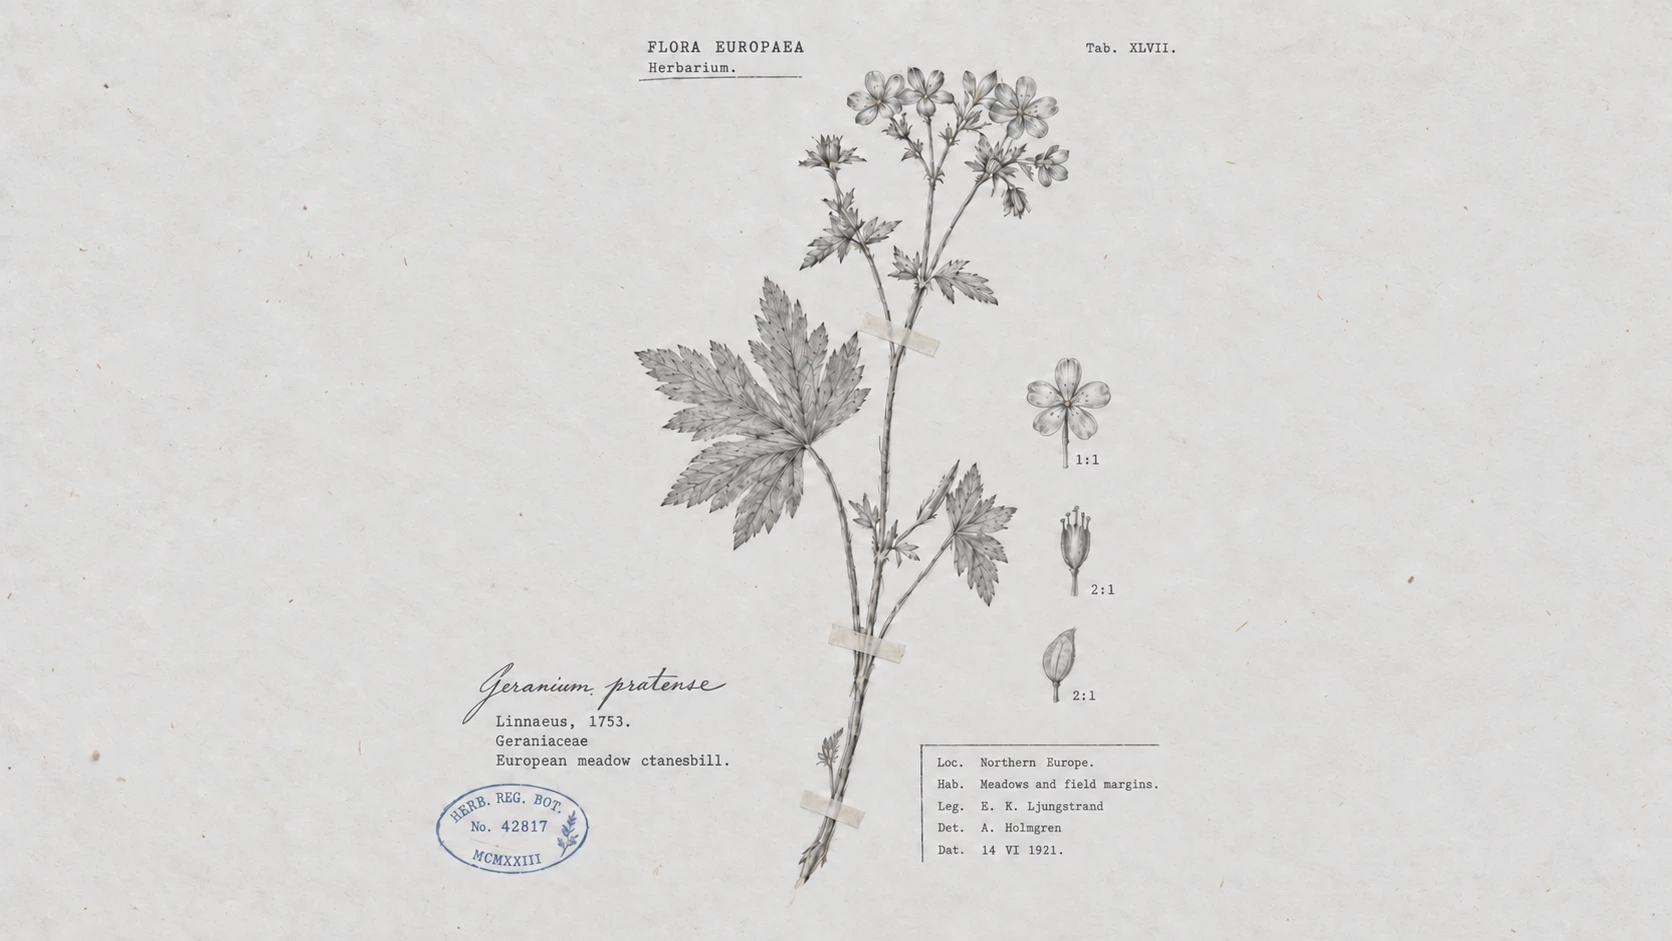
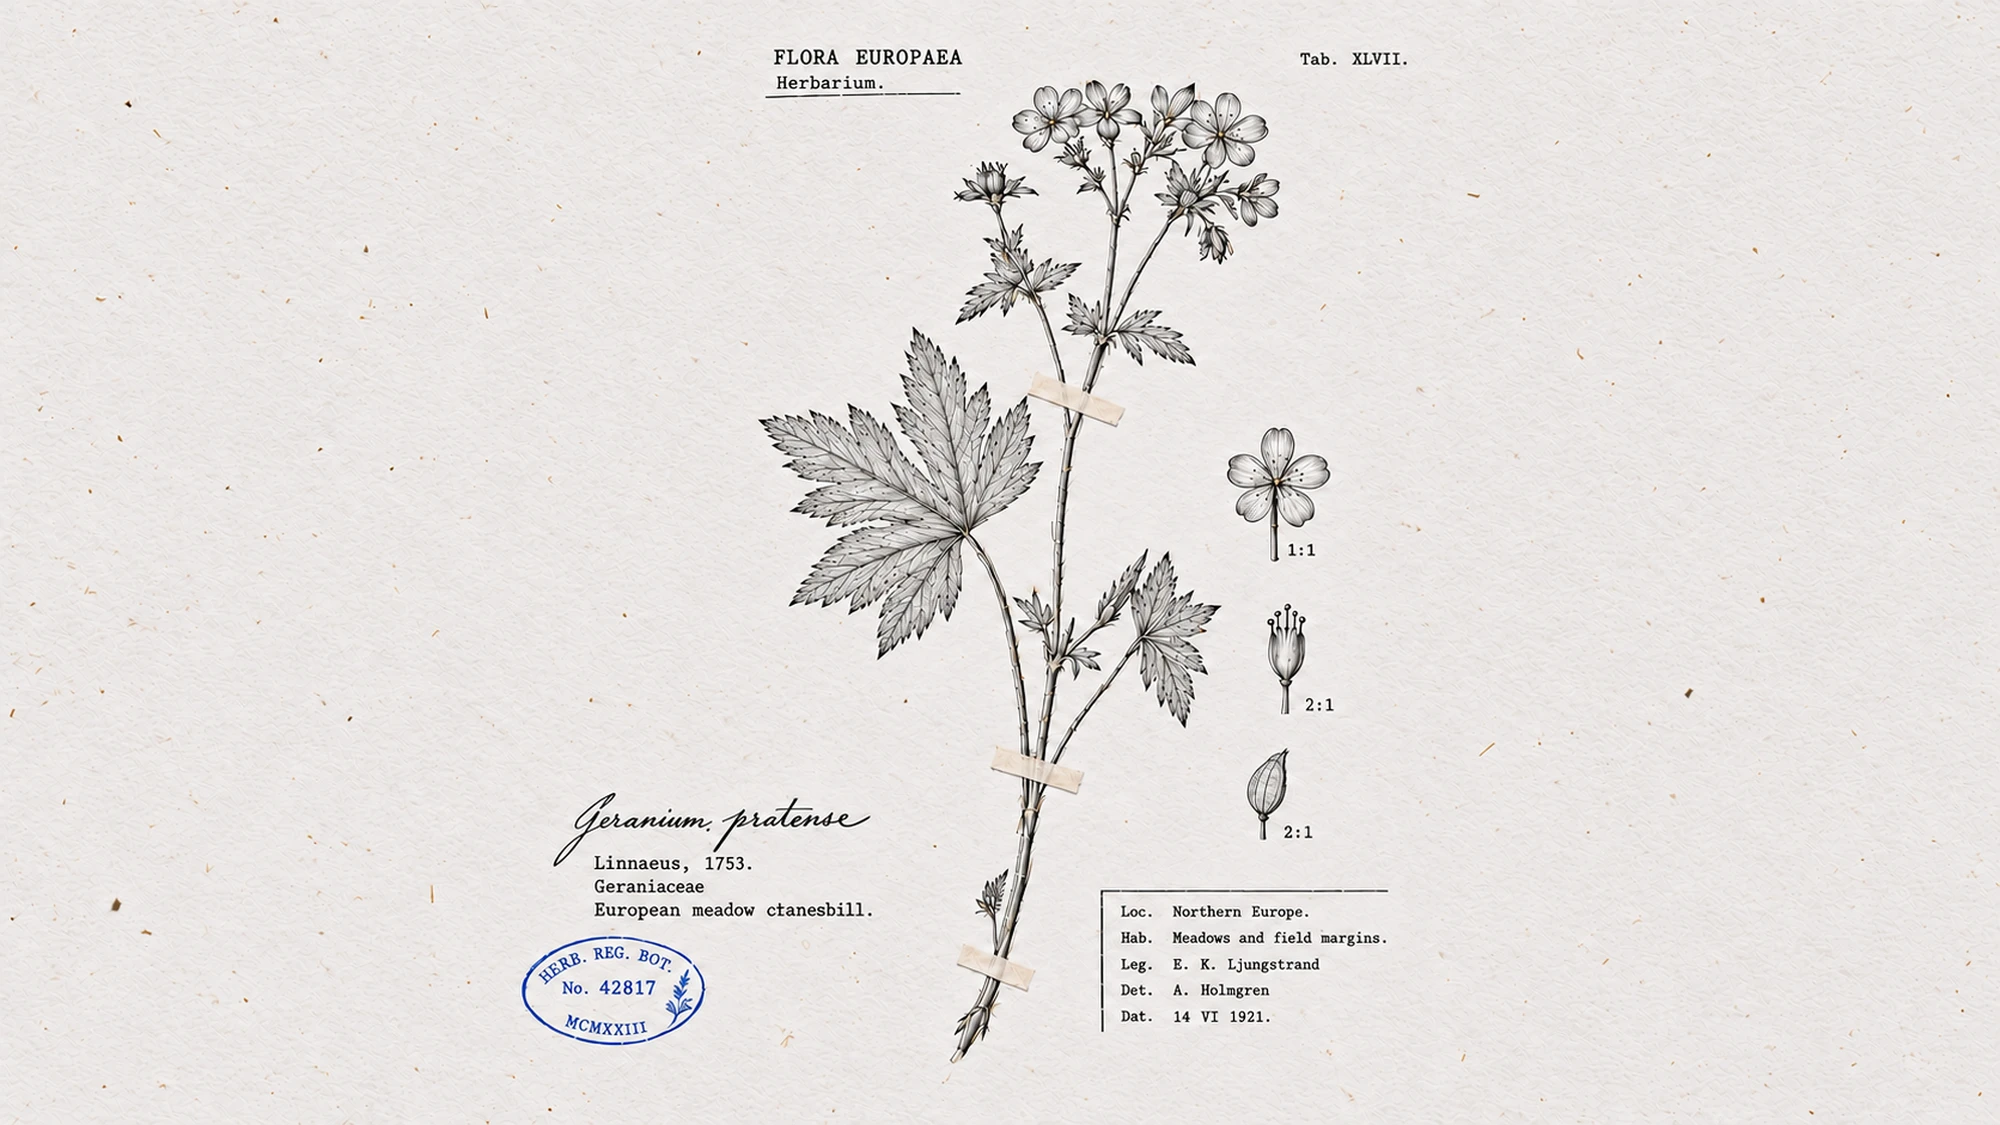
A sharper wallpaper, toned to match the desk
art/wallpaper.webp is the new, sharper drawing of the sheet. The importer
now quietens any picture to the desk's calm grey sheet: the colour of its
paper flecks and fibres greyed (blues kept), its paper grain softened
(ink and type untouched), lines darker than soft pencil lifted to it,
and the stamp's blue quietened and faded a little, as an old stamp is.

Claude-Session: https://claude.ai/code/session_01Gt7tu4gfoEos1TAjQ1a4QF

diff --git a/tools/import_wallpaper.py b/tools/import_wallpaper.py
@@ -55,6 +55,55 @@ COVER = (2880, 1800)
 DAY_PAPER = np.array([203, 201, 197], np.float32)
 NIGHT_PAPER = np.array([0x1c, 0x2f, 0x4d], np.float32)
 NIGHT_INK = np.array([0xe6, 0xe1, 0xd6], np.float32)
+# the paper's own texture, quietened to the desk's calm grey sheet: how much
+# of the colour of its flecks and fibres stays (the blue stamp keeps all of
+# its own), and how much of its grain (the drawing and type are untouched)
+FLECK_COLOUR = 0.35
+PAPER_GRAIN = 0.5
+# the drawing in soft pencil grey, never black: the darkest ink (all but
+# the darkest half percent) lifted to this if a picture draws darker; and
+# the stamp's blue, a little quieter than printed
+INK_FLOOR = 92.0
+STAMP_COLOUR = 0.8
+STAMP_LIFT = 0.22      # the stamp's ink a little toward the paper, faded as an old stamp is
+
+
+def quieten(big):
+    """The paper's flecks greyed and its grain softened; ink, type and the
+    blue stamp as drawn."""
+    rgb = np.asarray(big, np.float32)
+    lum = rgb.mean(axis=2, keepdims=True)
+    # colour: pulled toward grey, except blues (the stamp, any blue ink)
+    r, g, b = rgb[..., 0], rgb[..., 1], rgb[..., 2]
+    blue = np.clip((b - np.maximum(r, g)) / 40.0, 0, 1)[..., None]
+    keep = FLECK_COLOUR + (1 - FLECK_COLOUR) * blue
+    rgb = lum + (rgb - lum) * keep
+    # grain: the paper's small ups and downs eased toward its smooth level;
+    # ink (well below the paper) is left alone
+    gray = Image.fromarray(np.clip(rgb.mean(axis=2), 0, 255).astype(np.uint8))
+    level = np.asarray(gray.filter(ImageFilter.MedianFilter(9)).filter(ImageFilter.GaussianBlur(3)), np.float32)[..., None]
+    smooth = np.asarray(Image.fromarray(np.clip(rgb, 0, 255).astype(np.uint8)).filter(ImageFilter.GaussianBlur(2.2)), np.float32)
+    depth = np.clip((level - rgb.mean(axis=2, keepdims=True)) / 28.0, 0, 1)   # 0 paper .. 1 ink
+    paper = (1 - depth) * (1 - PAPER_GRAIN)
+    rgb = rgb * (1 - paper) + smooth * paper
+    # ink: grey pencil lines lifted toward the paper so the darkest is
+    # INK_FLOOR (a picture drawn that light already is left as it is)
+    r, g, b = rgb[..., 0], rgb[..., 1], rgb[..., 2]
+    blue = np.clip((b - np.maximum(r, g)) / 40.0, 0, 1)[..., None]
+    paper_rgb = np.median(rgb.reshape(-1, 3), axis=0)
+    lum = rgb.mean(axis=2)
+    darkest = np.percentile(lum[blue[..., 0] < 0.5], 0.5)
+    paper_l = float(paper_rgb.mean())
+    if darkest < INK_FLOOR < paper_l:
+        k = (paper_l - INK_FLOOR) / (paper_l - darkest)
+        lifted = paper_rgb + (rgb - paper_rgb) * k
+        rgb = rgb * blue + lifted * (1 - blue)          # the stamp keeps its depth
+    # the stamp: its blue a little quieter, and faded a little
+    lum = rgb.mean(axis=2, keepdims=True)
+    stamp = lum + (rgb - lum) * STAMP_COLOUR
+    stamp = stamp + (paper_rgb - stamp) * STAMP_LIFT
+    rgb = rgb * (1 - blue) + stamp * blue
+    return Image.fromarray(np.clip(rgb, 0, 255).astype(np.uint8))
 
 
 def main():
@@ -66,6 +115,7 @@ def main():
     big = src.resize((round(src.width * scale), round(src.height * scale)), Image.LANCZOS)
     if scale > 1.05:   # enlarged: bring the pencil lines back a little
         big = big.filter(ImageFilter.UnsharpMask(radius=1.4, percent=55, threshold=2))
+    big = quieten(big)
     rgb = np.asarray(big, np.float32)
 
     # the paper's own colour, everywhere (the ink lifted out of it)
